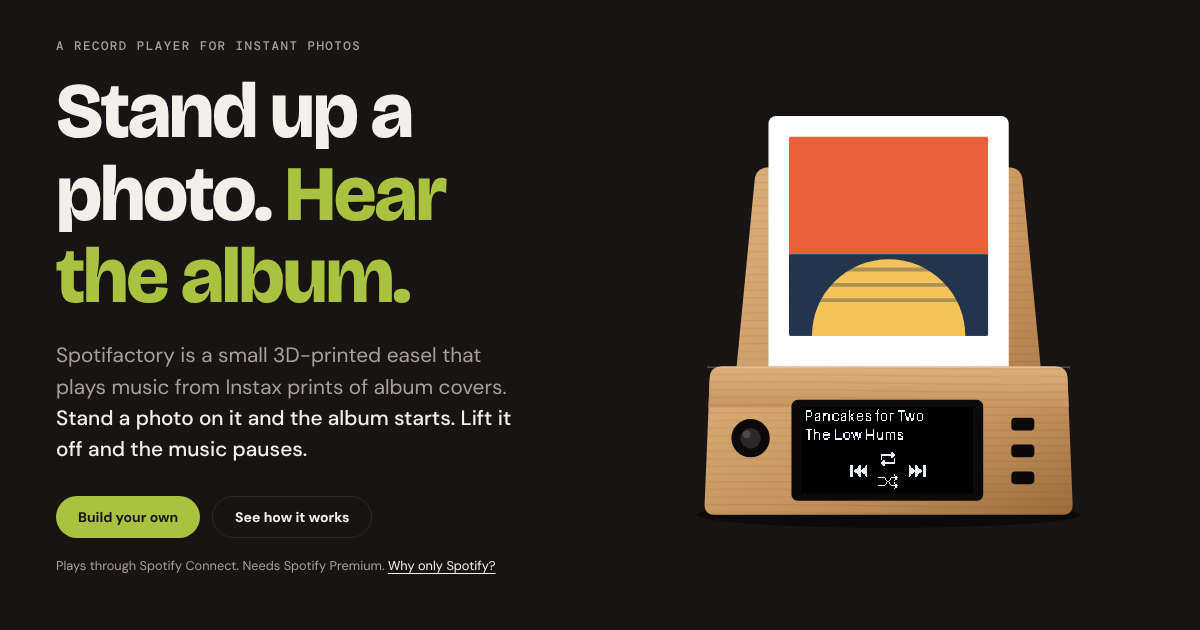
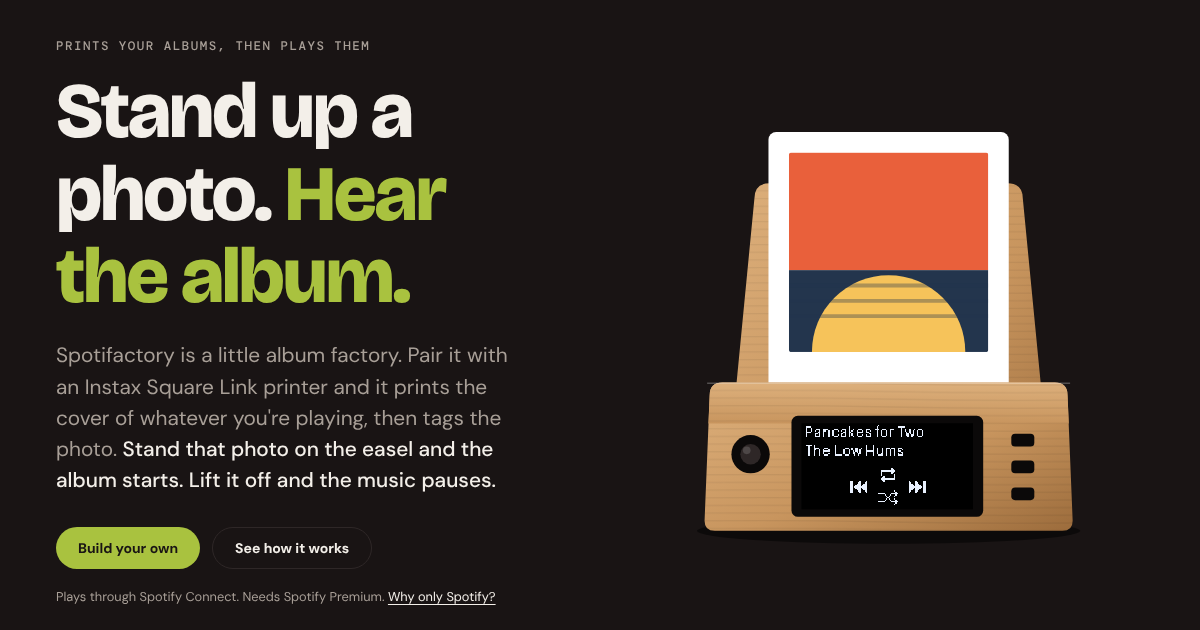
Site: say up front that the box prints the photos too
Claude-Session: https://claude.ai/code/session_01TuwtPvwNTAgBcr1MLb96hW

diff --git a/site/index.html b/site/index.html
@@ -4,12 +4,12 @@
 <meta charset="utf-8">
 <meta name="viewport" content="width=device-width, initial-scale=1, viewport-fit=cover">
 <title>Spotifactory</title>
-<meta name="description" content="A small music box that plays albums from instant photos. Stand a photo on it to play the album; lift it off to pause.">
+<meta name="description" content="A little album factory: it prints the cover of what you're playing on your Instax printer and tags the photo. Stand the photo on it to play the album; lift it off to pause.">
 <meta name="theme-color" content="#191414">
 <link rel="icon" href="/favicon.svg" type="image/svg+xml">
 <link rel="canonical" href="https://spotifactory.com/">
 <meta property="og:title" content="Spotifactory">
-<meta property="og:description" content="A small music box that plays albums from instant photos. Stand a photo on it to play the album; lift it off to pause.">
+<meta property="og:description" content="A little album factory: it prints the cover of what you're playing on your Instax printer and tags the photo. Stand the photo on it to play the album; lift it off to pause.">
 <meta property="og:url" content="https://spotifactory.com/">
 <meta property="og:type" content="website">
 <meta property="og:image" content="https://spotifactory.com/og.png">
@@ -42,9 +42,9 @@
 <section class="hero" aria-labelledby="hero-title">
   <div class="wrap">
     <div>
-      <p class="eyebrow">A record player for instant photos</p>
+      <p class="eyebrow">Prints your albums, then plays them</p>
       <h1 id="hero-title" style="margin-top:18px">Stand up a photo. <em>Hear the album.</em></h1>
-      <p class="lede">Spotifactory is a small 3D-printed easel that plays music from Instax prints of album covers. <strong>Stand a photo on it and the album starts. Lift it off and the music pauses.</strong></p>
+      <p class="lede">Spotifactory is a little album factory. Pair it with an Instax Square Link printer and it prints the cover of whatever you're playing, then tags the photo. <strong>Stand that photo on the easel and the album starts. Lift it off and the music pauses.</strong></p>
       <div class="ctas">
         <a class="btn btn-primary" href="/build">Build your own</a>
         <a class="btn btn-ghost" href="#how">See how it works</a>
